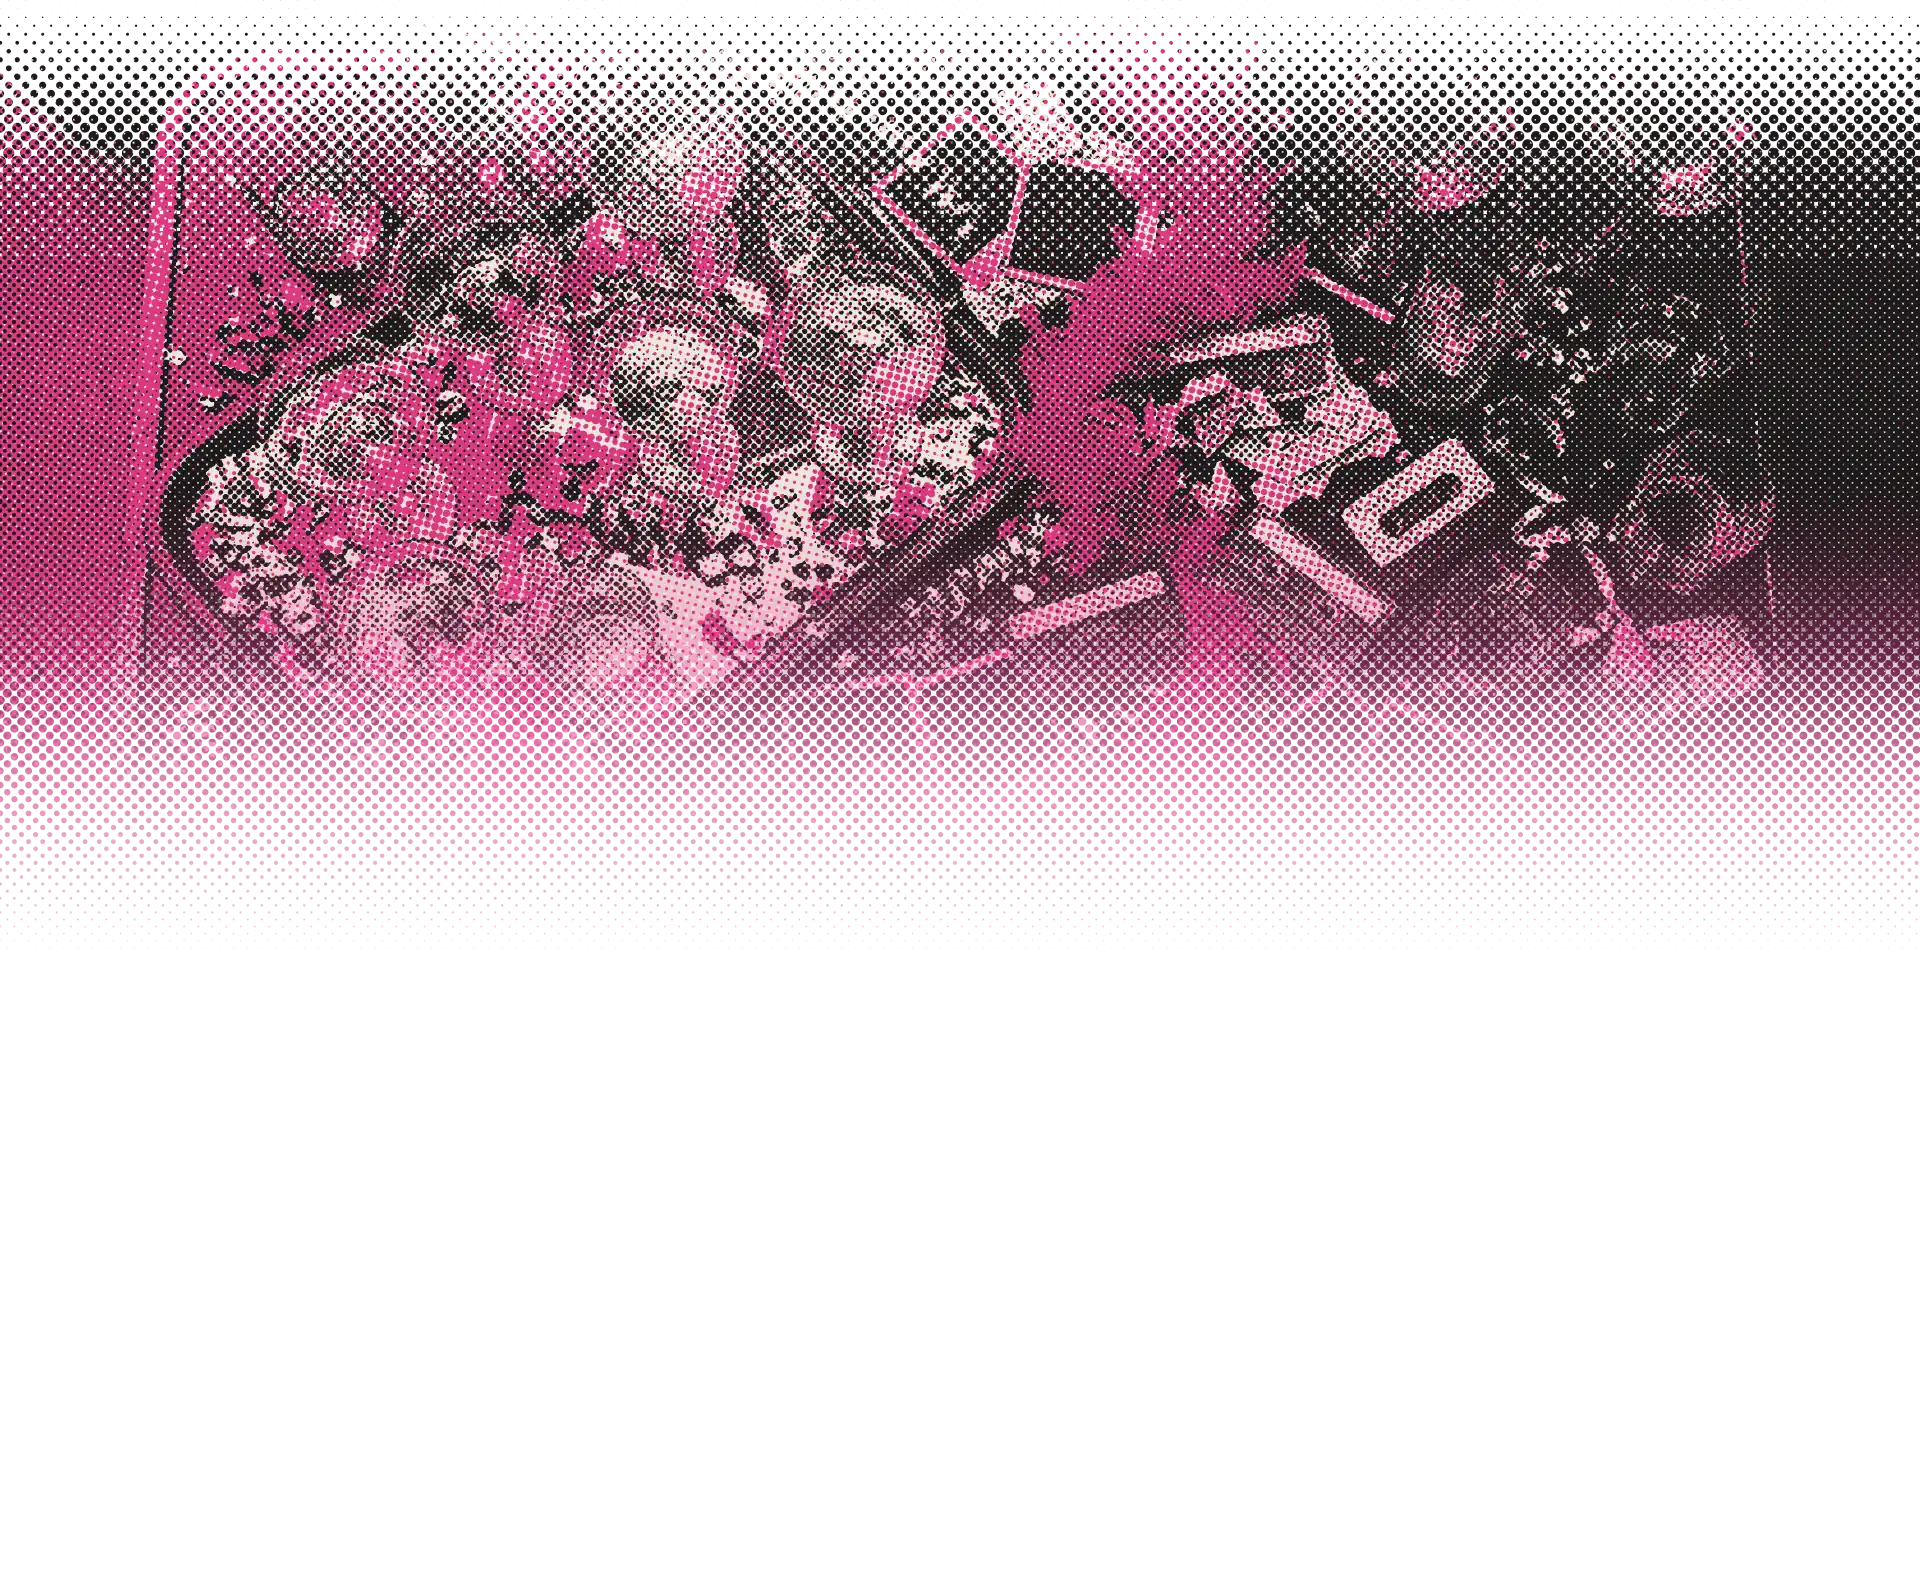
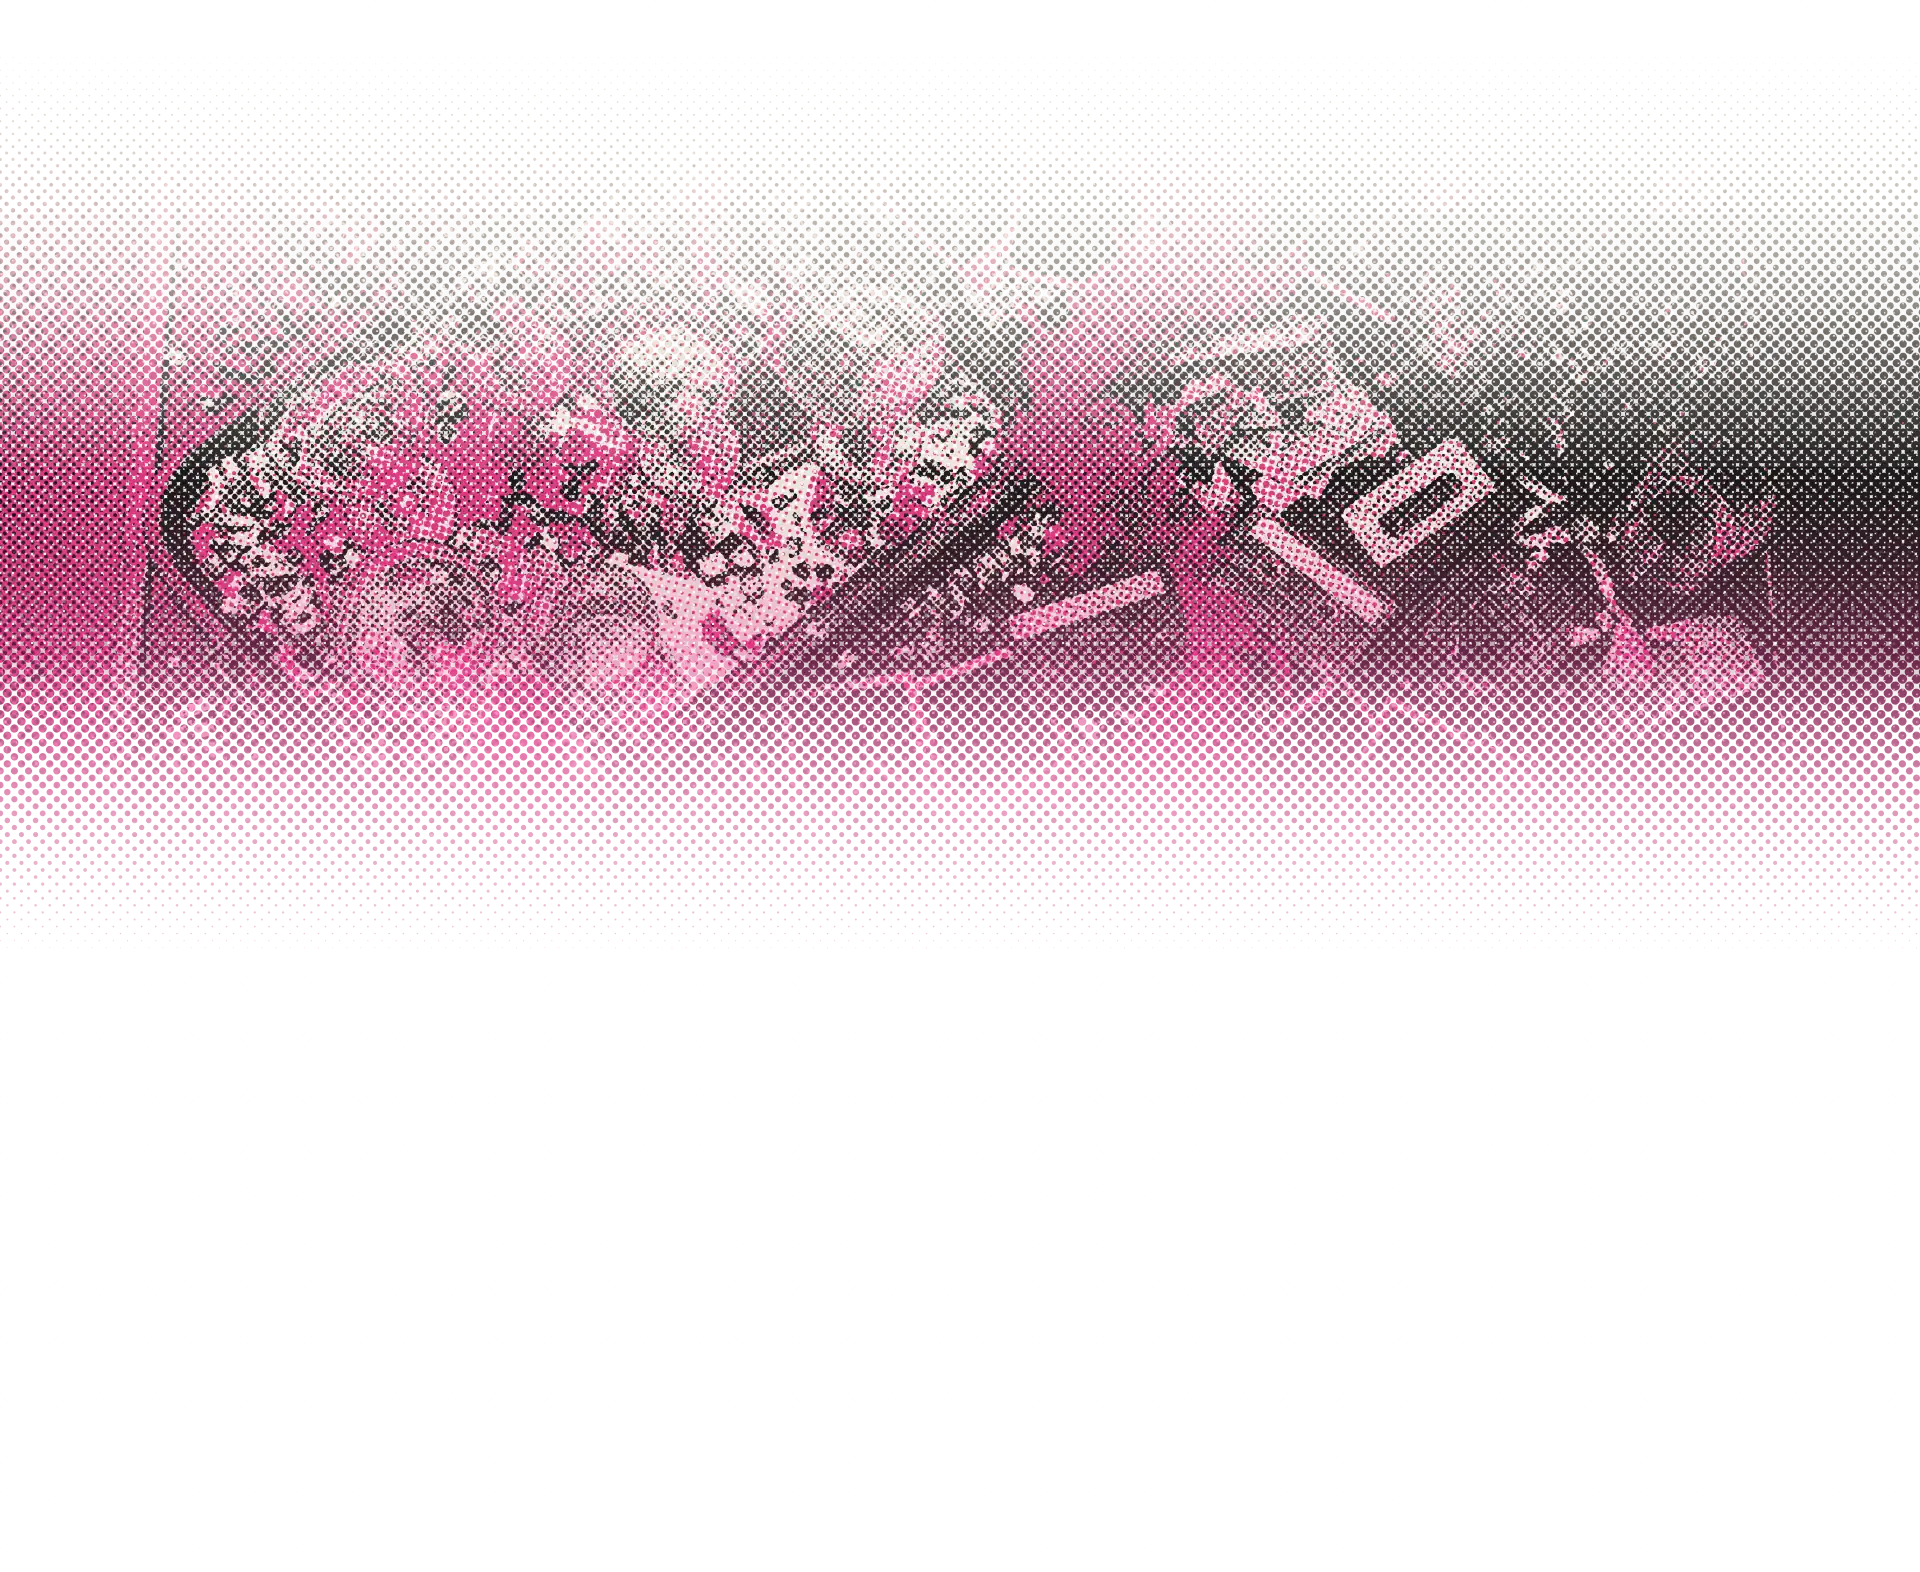
Afterparty header: smoother top fade (longer smootherstep, finer dots, paper tint)
Claude-Session: https://claude.ai/code/session_011MVAnQFHQ9Wv2cvGWey2uC

Changed region(s): [[0.0, 0.0312, 1.0, 0.4052]]

diff --git a/scripts/page-headers/fade.py b/scripts/page-headers/fade.py
@@ -1,5 +1,5 @@
-# Page header pictures (Jukebox, Library, A–Z - Lisa, 29 Oct 2026): a Gemini photo turned into the pink/black photocopy halftone with pixel fades.
-# PHOTO=<gemini.jpeg> OUT=out.png [TOPFADE=260] [START=0.42 EXT=500 LEN=520] python3 scripts/page-headers/fade.py
+# Page header pictures (Jukebox, Library, A–Z, Afterparty - Lisa, 29 Oct 2026): a Gemini photo turned into the pink/black photocopy halftone with pixel fades.
+# PHOTO=<gemini.jpeg> OUT=out.png [TOPFADE=260 TOPLEN=680] [START=0.42 EXT=500 LEN=520] python3 scripts/page-headers/fade.py
 import os
 import importlib.util, sys, os, numpy as np, cv2
 from PIL import Image
@@ -25,7 +25,11 @@ dots=pb.screen(np.clip(1-T**1.1,0,1).astype(np.float32),10,45)
 m=np.clip(T/0.55,0,1); m=m*m*(3-2*m); a=1-m*(1-dots)
 TOP=int(os.environ.get('TOPFADE','0'))
 if TOP:
-    rows=np.arange(HH,dtype=np.float32); u=np.clip(rows/TOP,0,1); u=(u*u*(3-2*u))[:,None]*np.ones((1,W),np.float32)
-    up=pb.screen(u.astype(np.float32),12,45); a=a*np.where(u<1,up,1)
+    # smoother top (Lisa, 29 Oct 2026): the picture first rises out of the paper over a longer stretch - tiny pale dots that
+    # grow slowly (smootherstep, finer screen), and the colour eases in from the page's paper.
+    TF=int(os.environ.get('TOPLEN',str(TOP+420)))
+    rows=np.arange(HH,dtype=np.float32); u=np.clip(rows/TF,0,1); u=(u*u*u*(u*(u*6-15)+10))[:,None]*np.ones((1,W),np.float32)
+    up=pb.screen(u.astype(np.float32),9,45); a=a*np.where(u<0.999,np.clip(up*0.85+u*0.15,0,1),1)
+    paper=np.array([228,223,213],np.float32); kk=(1-np.clip(u*1.25,0,1))[...,None]; col=col*(1-kk)+paper*kk
 Image.fromarray(np.dstack([np.clip(col,0,255),np.clip(a,0,1)*255]).astype(np.uint8),'RGBA').save(OUT)
 print(W,HH)
